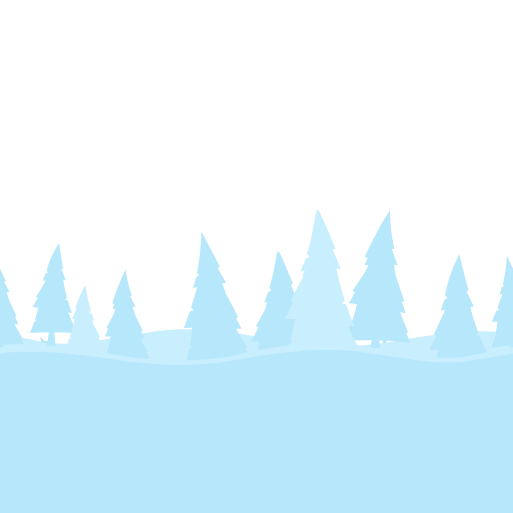
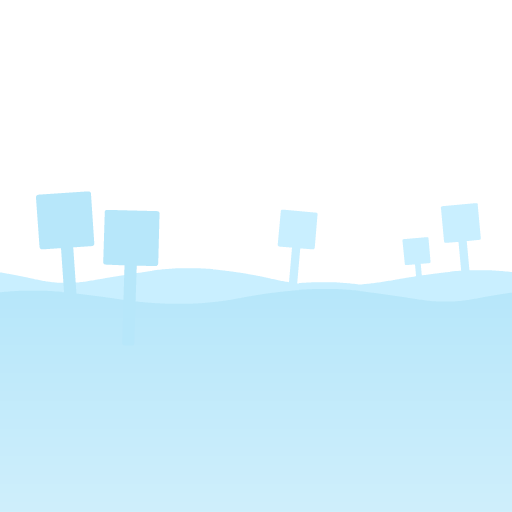
Changed sprites
- Changed `backing`, darker and blue tint added
- Changed `backingtop`, gradient added
- Changed `ladder`, less wide
- Changed `clouds`, improved colors
- Changed `hills`, match foreground trees
- Changed background color to match images

Changed region(s): [[0.0, 0.375, 0.4375, 0.6875], [0.4375, 0.375, 1.0, 0.6562], [0.6875, 0.6562, 0.75, 0.6875]]

diff --git a/src/Game.ts b/src/Game.ts
@@ -882,7 +882,7 @@ export class Game implements ControllerListener {
         const oy = this.player.y - (this.canvas.height / 2);
         ox = Math.min(Math.max(0, ox), (MAP_WIDTH * TILE_SIZE) - this.canvas.width);
 		
-		this.g.clearScreen(0xb7, 0xe7, 0xfa);
+		this.g.clearScreen(207, 239, 252);
 
         const backgrounds = [{
             sprite: "bg/clouds",
